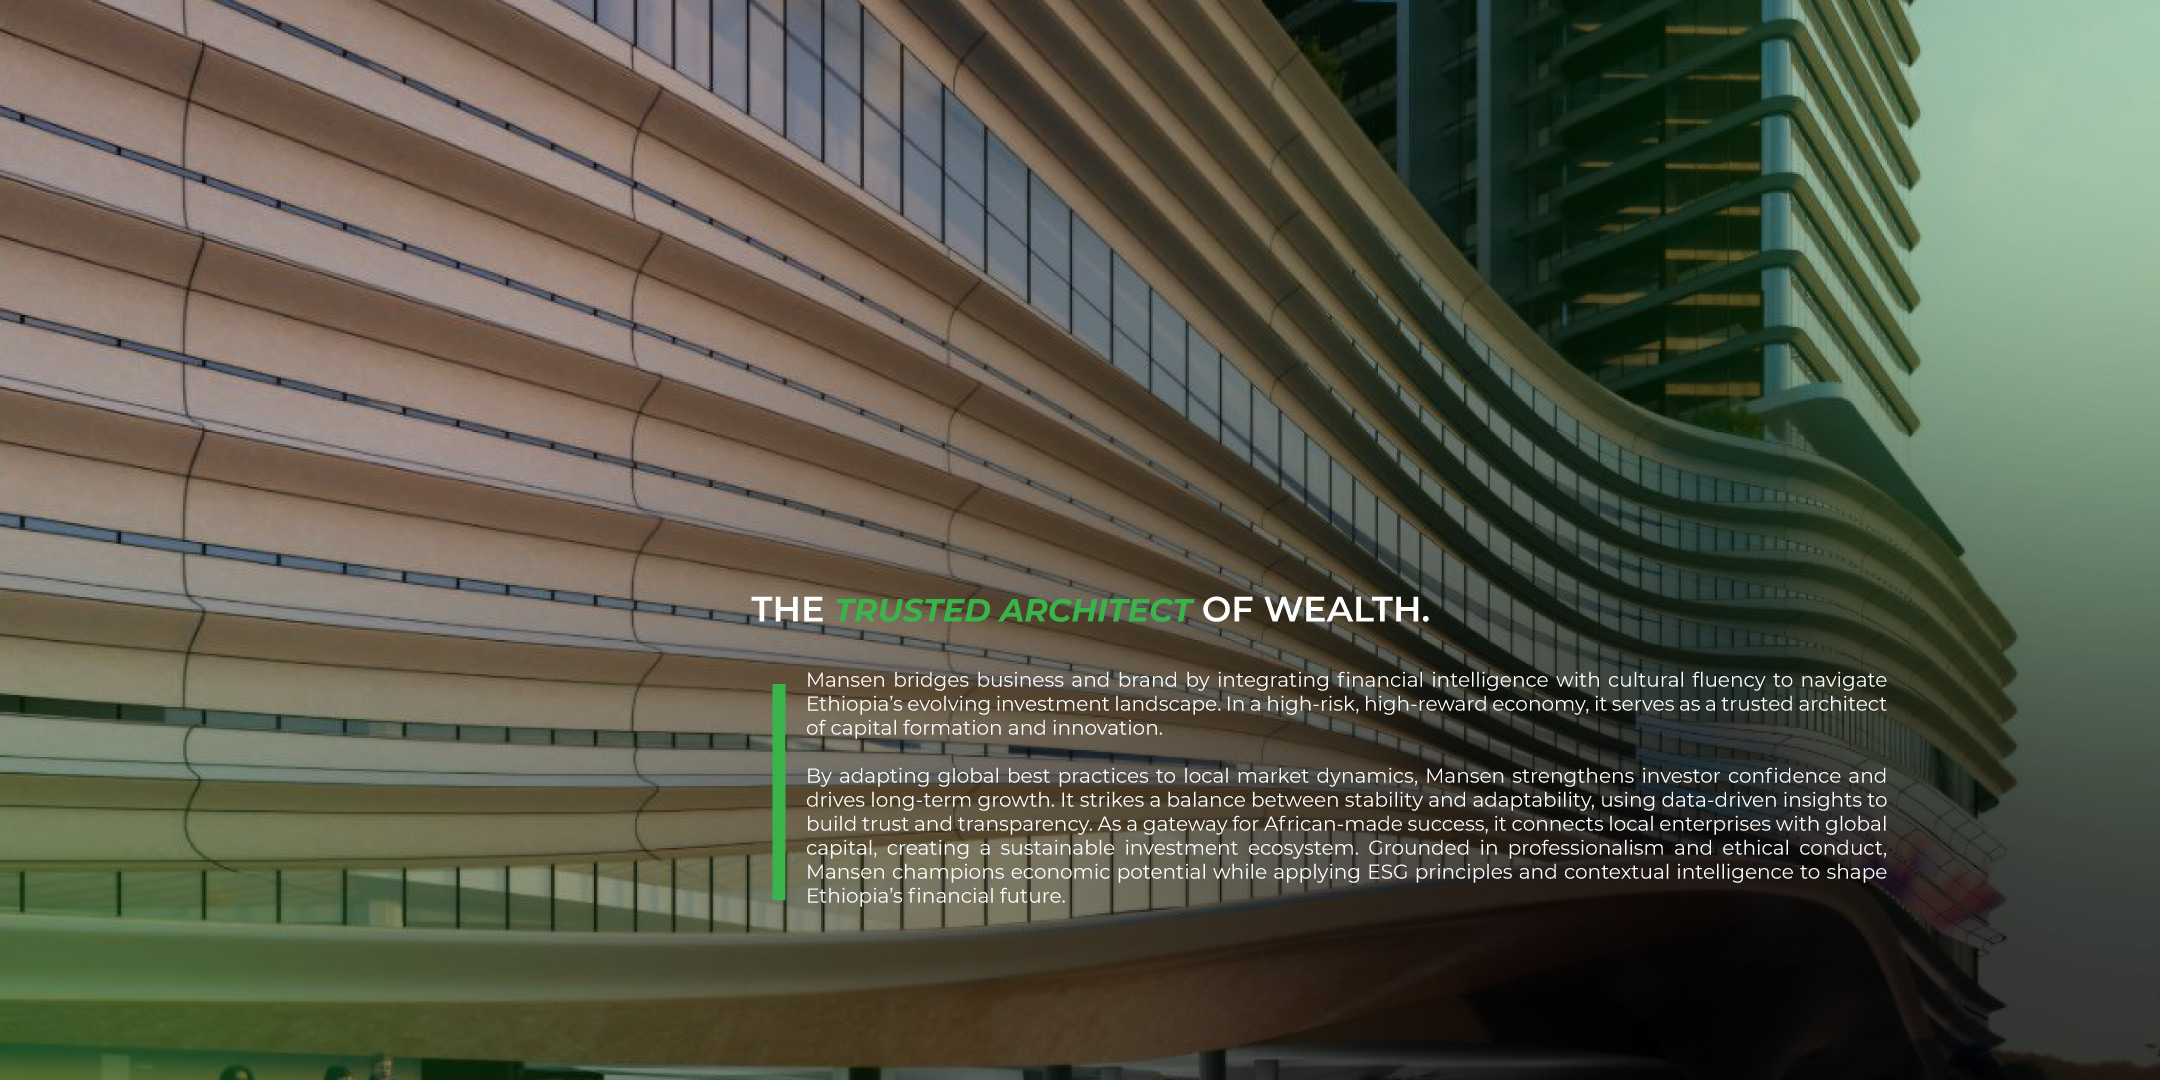
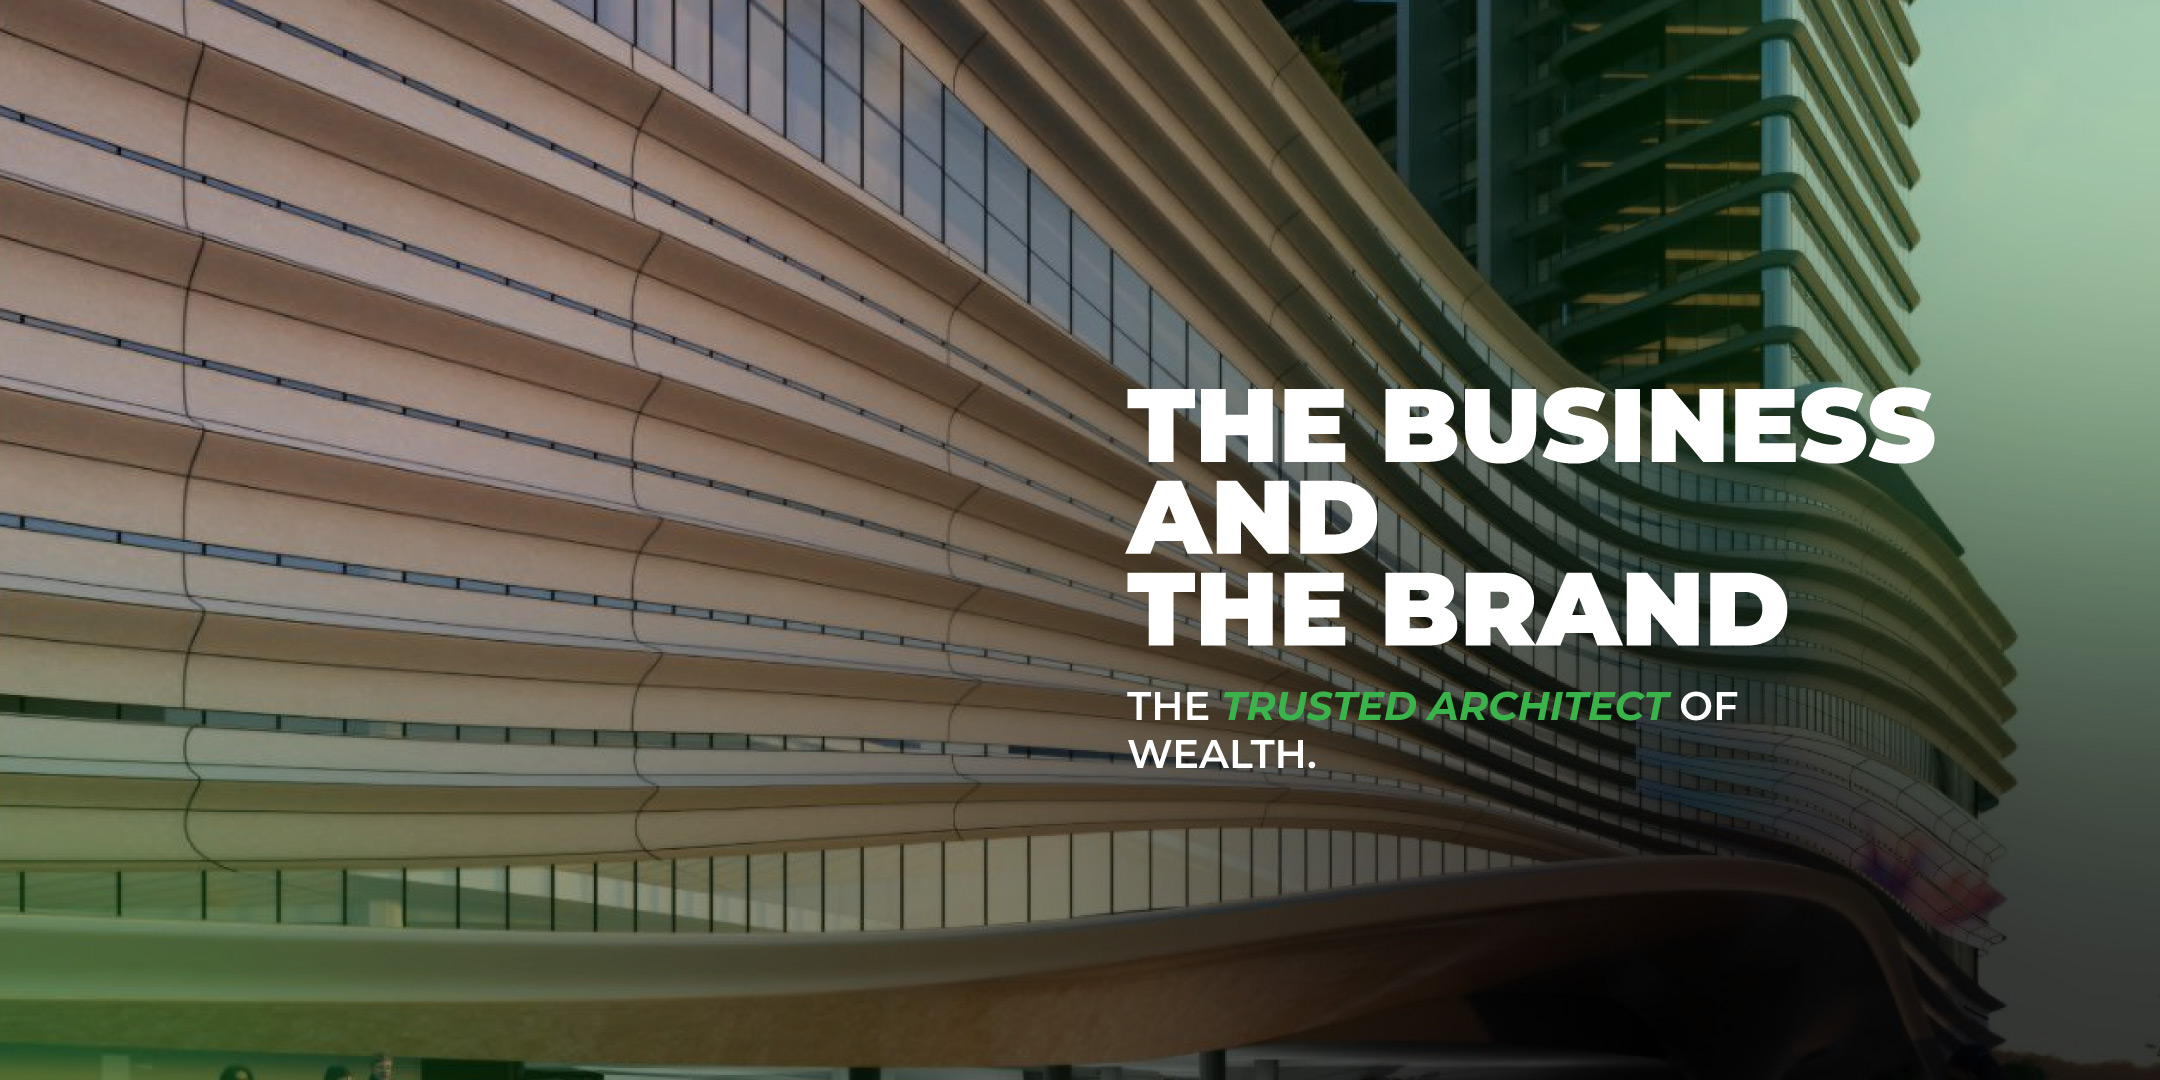
update

Changed region(s): [[0.3412, 0.3361, 0.8995, 0.8556]]

diff --git a/index.html b/index.html
@@ -102,9 +102,10 @@ if (isset($_SESSION['form_submitted'])) {
    
     <div class="owl-carousel " id="owl-carousel-3">
       <img src="./Assets/slider-mobile-0.jpg" class="sliders" alt="" />
+      <img src="./Assets/slider-mobile-3.jpg" class="sliders" alt="" />
+
       <img src="./Assets/slider-mobile-1.jpg" class="sliders" alt="" />
       <img src="./Assets/slider-mobile-2.jpg" class="sliders" alt="" />
-      <img src="./Assets/slider-mobile-3.jpg" class="sliders" alt="" />
     </div>
   </section>
   <section id="home" class="pc-only">

diff --git a/index.css b/index.css
@@ -1041,16 +1041,16 @@ footer ~ * {
     padding: 0 20px !important;
   }
   .text-one {
-    top: 30vh; /* First text */
-    left: -55vh;
+    top: 35vh; /* First text */
+    left: -65vh;
   }
 
   .text-two {
-    top: 40vh; /* Second text */
-    right: -15vh;
+    top: 45vh; /* Second text */
+    right: -25vh;
   }
   .columns-section {
-    margin-top: 40vh;
+    margin-top: 47vh;
   }
   .big-title {
     padding-bottom: 10px !important;
